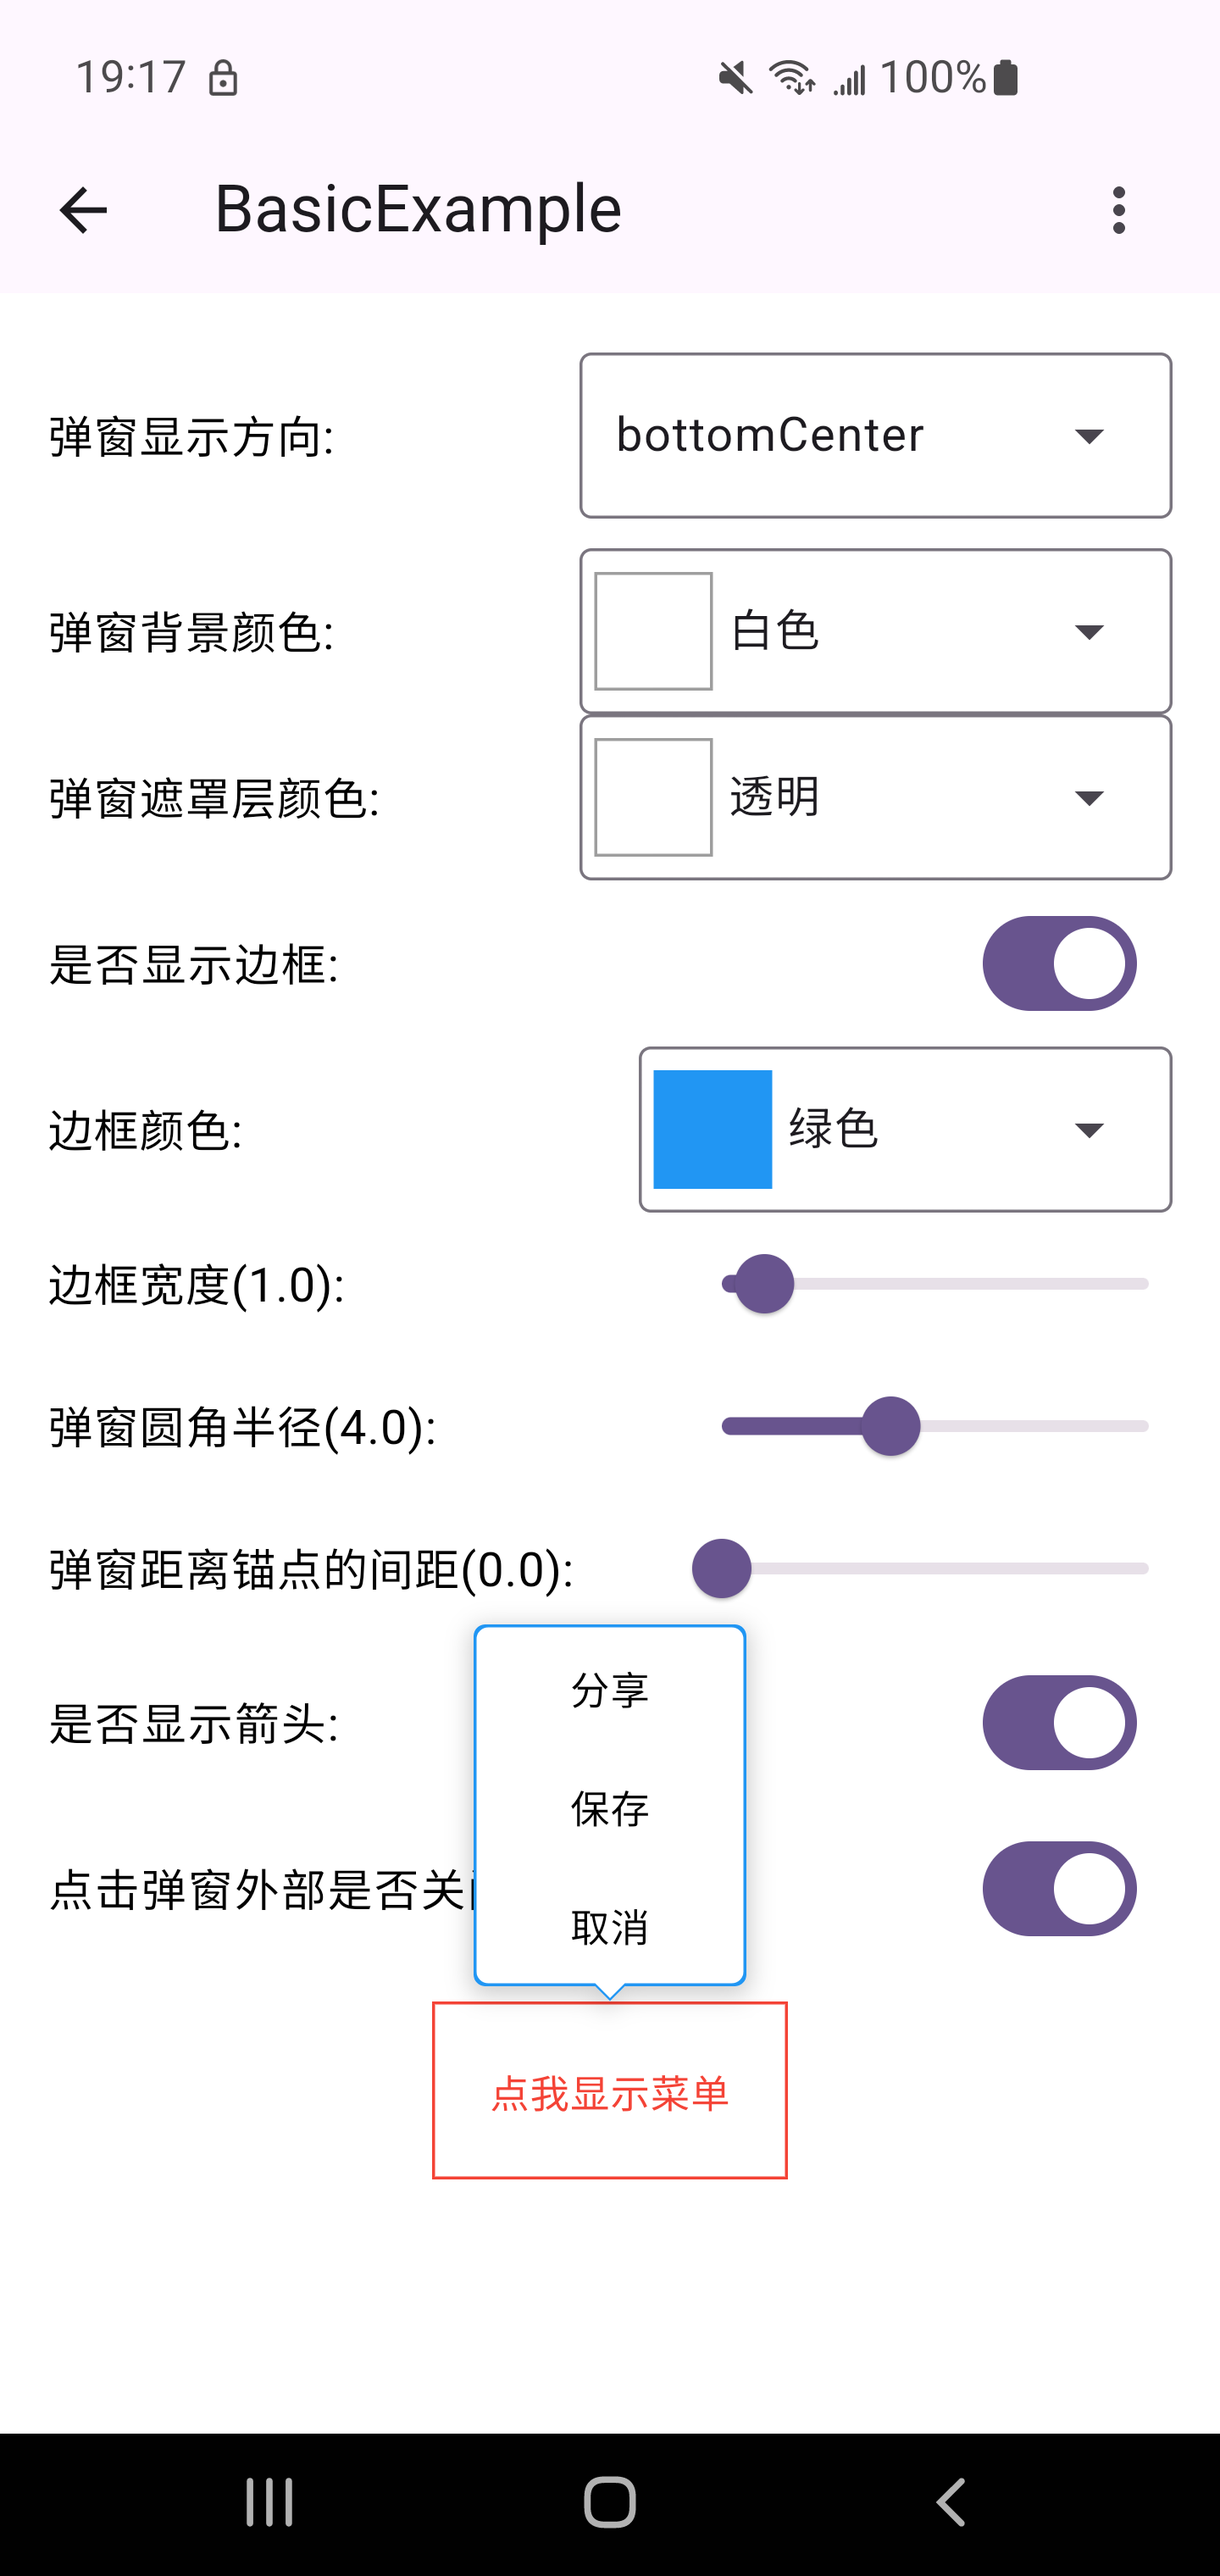
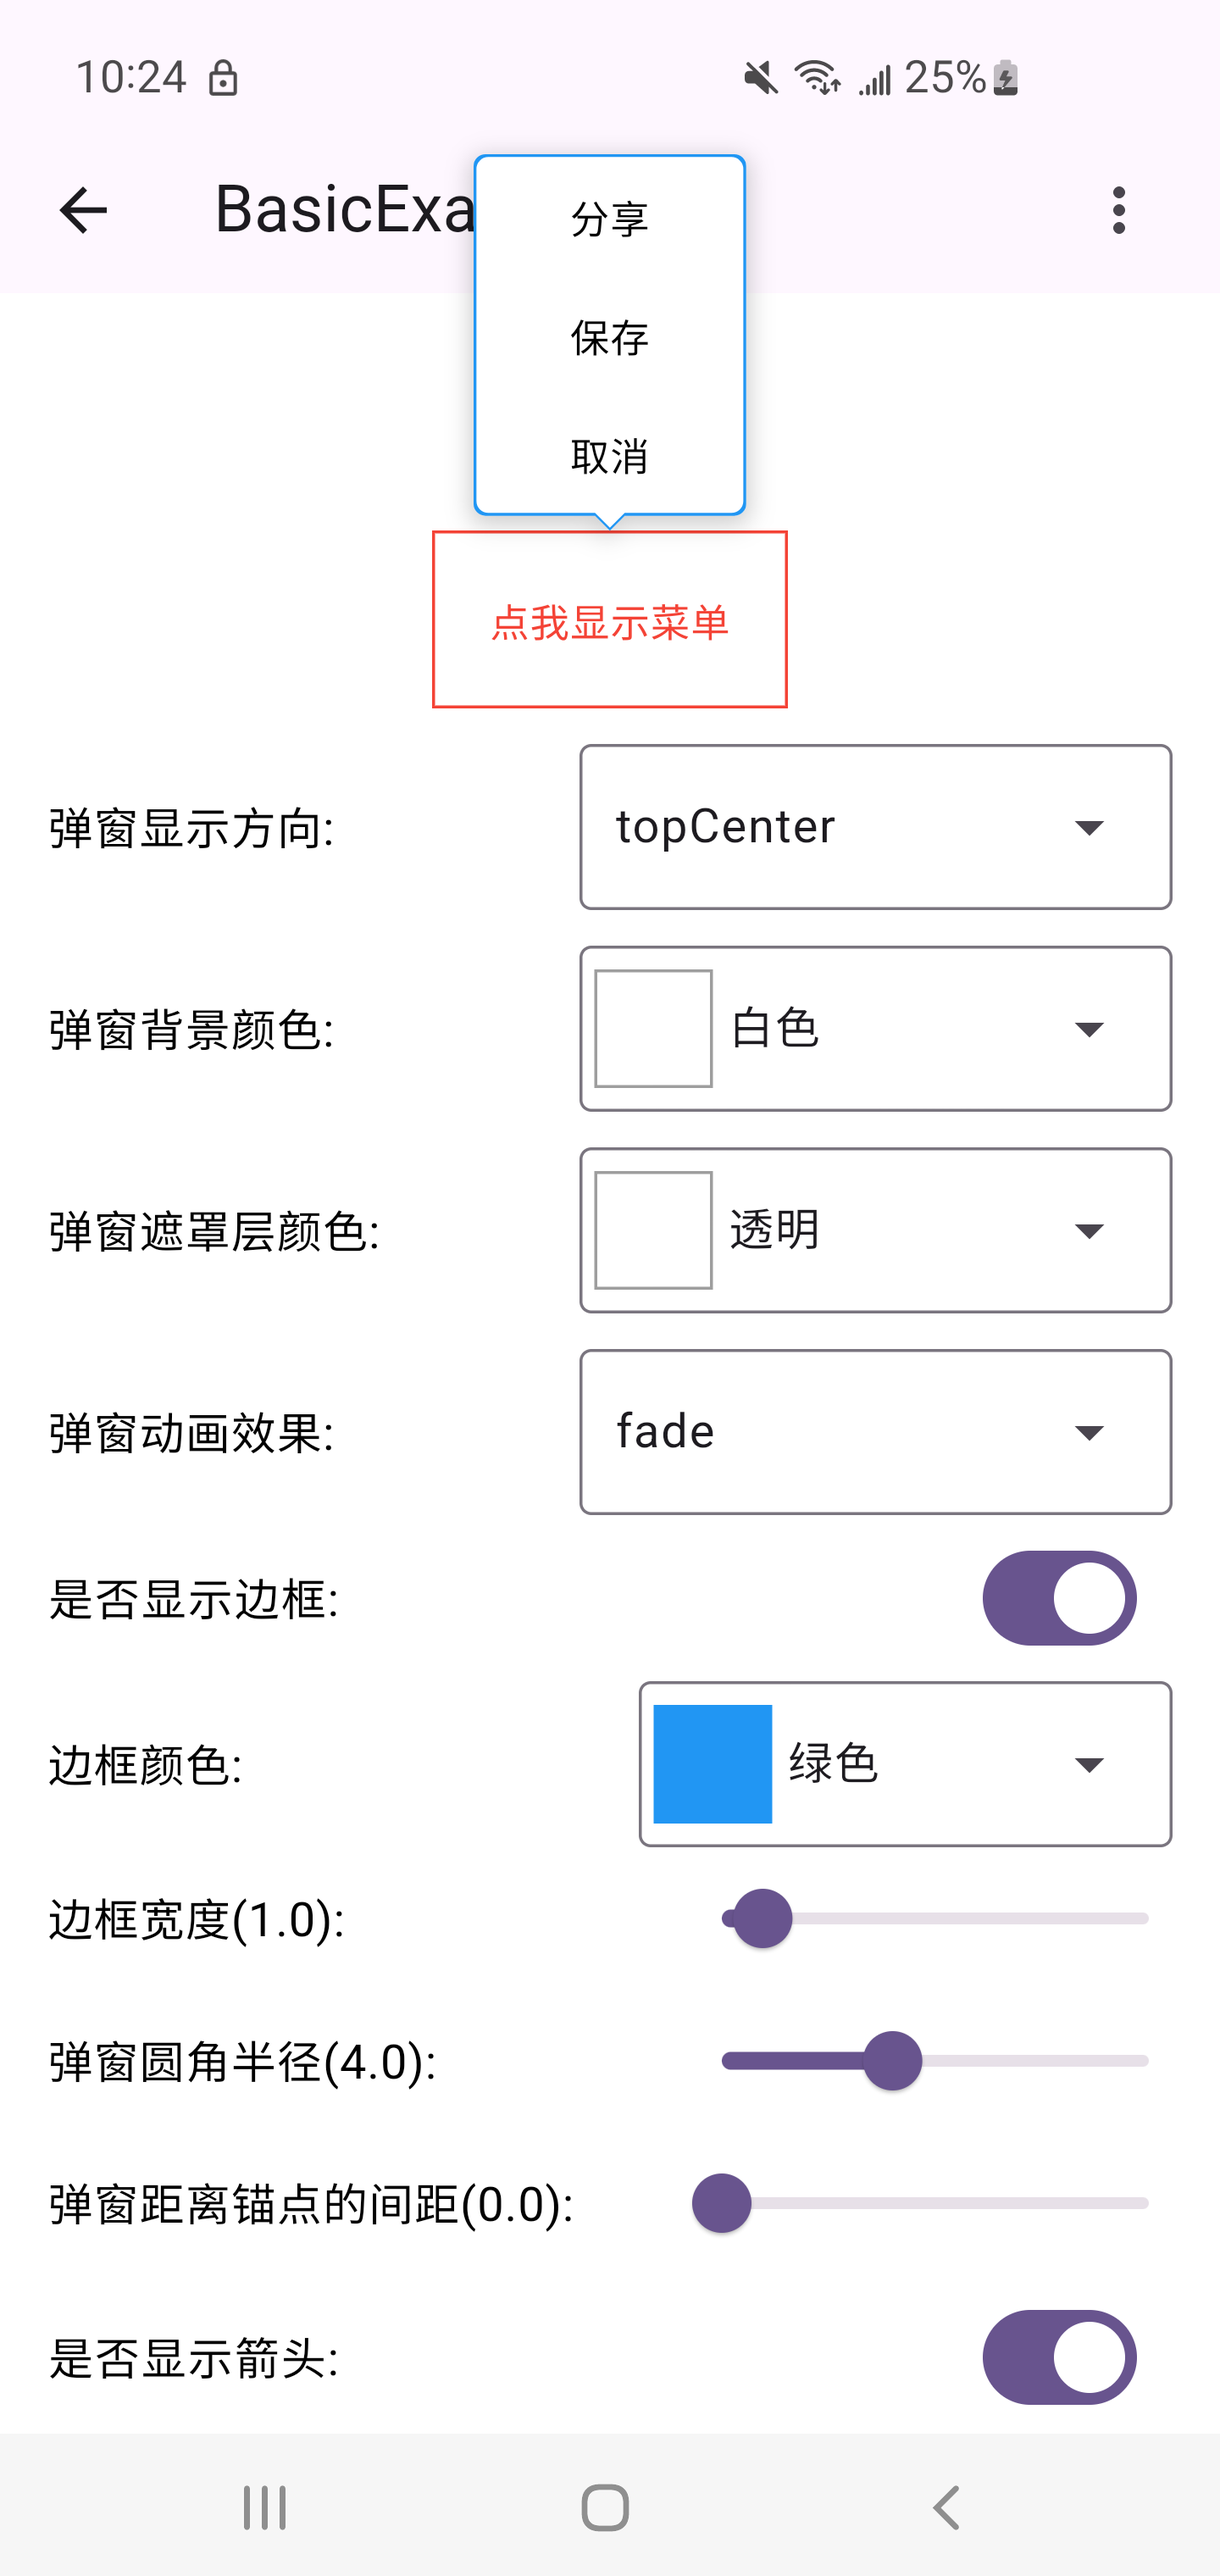
update example add screenshot

diff --git a/example/lib/pages/basic_example.dart b/example/lib/pages/basic_example.dart
@@ -76,7 +76,11 @@ class _BasicExampleState extends State<BasicExample> {
       mainAxisSize: MainAxisSize.min,
       children: [
         const SizedBox(
-          height: 20,
+          height: 80,
+        ),
+        _button(),
+        const SizedBox(
+          height: 12,
         ),
         Padding(
           padding: const EdgeInsets.symmetric(horizontal: 16.0),
@@ -109,7 +113,7 @@ class _BasicExampleState extends State<BasicExample> {
           ),
         ),
         const SizedBox(
-          height: 10,
+          height: 12,
         ),
         Padding(
           padding: const EdgeInsets.symmetric(horizontal: 16.0),
@@ -161,6 +165,9 @@ class _BasicExampleState extends State<BasicExample> {
             ],
           ),
         ),
+        const SizedBox(
+          height: 12,
+        ),
         Padding(
           padding: const EdgeInsets.symmetric(horizontal: 16.0),
           child: Row(
@@ -208,6 +215,9 @@ class _BasicExampleState extends State<BasicExample> {
               )
             ],
           ),
+        ),
+        const SizedBox(
+          height: 12,
         ),
         Padding(
           padding: const EdgeInsets.symmetric(horizontal: 16.0),
@@ -417,11 +427,7 @@ class _BasicExampleState extends State<BasicExample> {
           },
         ),
         const SizedBox(
-          height: 10,
-        ),
-        _button(),
-        const SizedBox(
-          height: 150,
+          height: 20,
         ),
       ],
     ));
